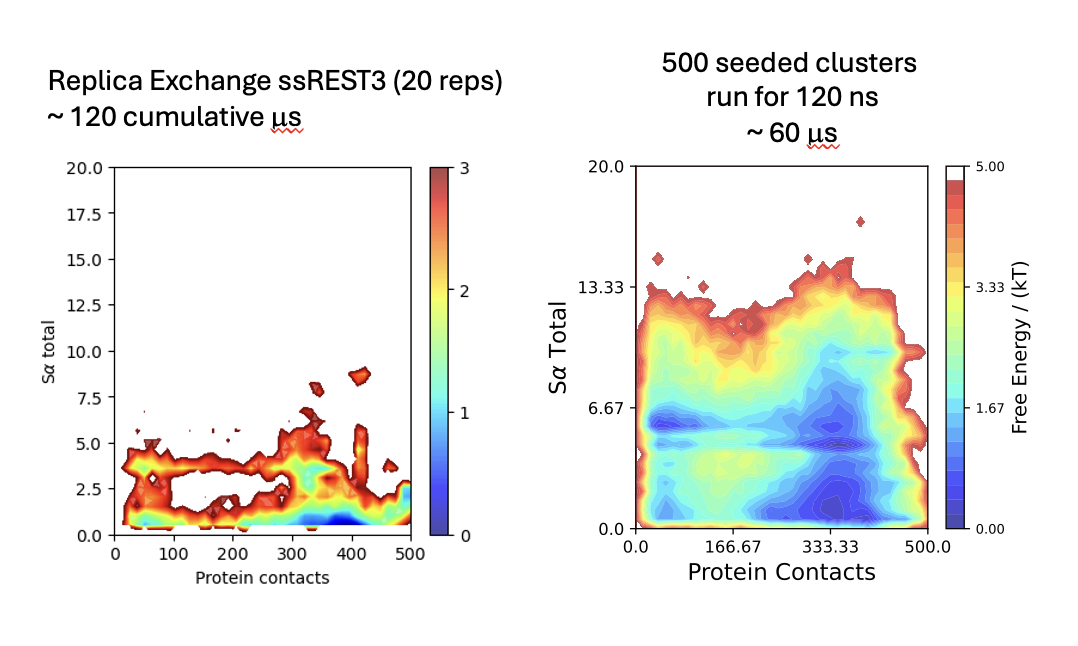
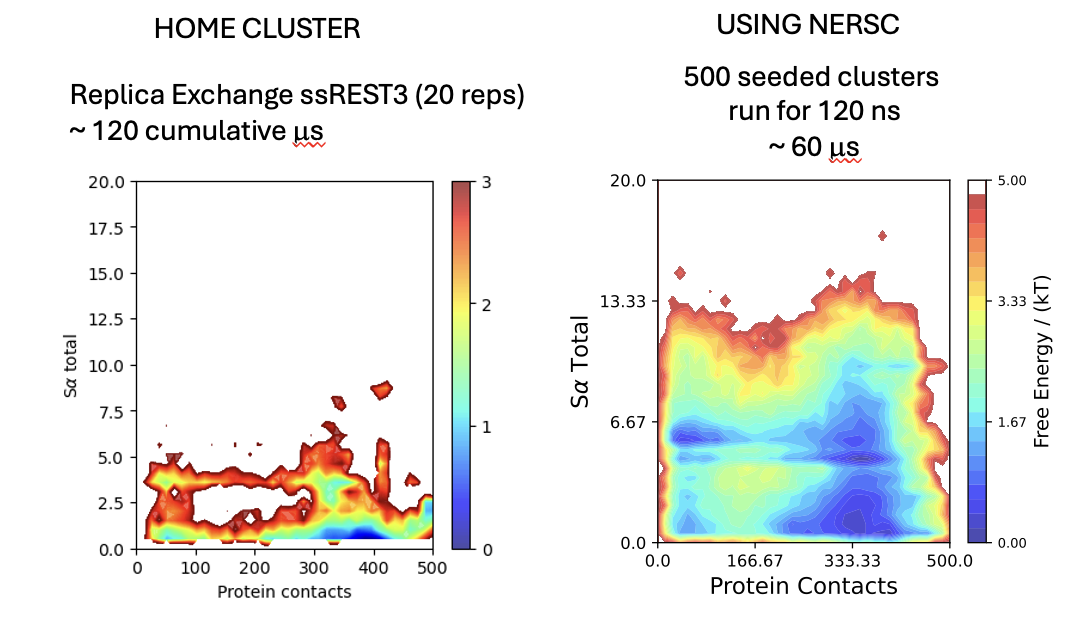
updated progress

diff --git a/README.md b/README.md
@@ -8,4 +8,4 @@ Additional Information is added on how to run several simulations bundled togeth
 * The simulation progress and sampling is evaluated based on the helical content and number of contacts
 
 ![Project Screenshot](images/project_status.png)
-On the left is shown the simulation progress using replica exchange solute tempering (simulations not carried out on nersc) with a cumulative time of 120 microseconds (~ 2 months time). On the right is shown the simulation progress using seeded simulations of the first generation of FAST using NERSC resources with a cumulative amount of unbiased simulation time of 60 microseconds (2 weeks with bundling)
+On the left is shown the simulation progress using replica exchange solute tempering (simulations not carried out on nersc) with a cumulative time of 120 microseconds (~ 2 months time). On the right is shown the simulation progress using seeded simulations of the first generation of FAST using NERSC resources with a cumulative amount of unbiased simulation time of 60 microseconds (2 weeks with bundling). Clearly you can see in less time, using a wide amount of resources, you can achieve a more targeted result. 
